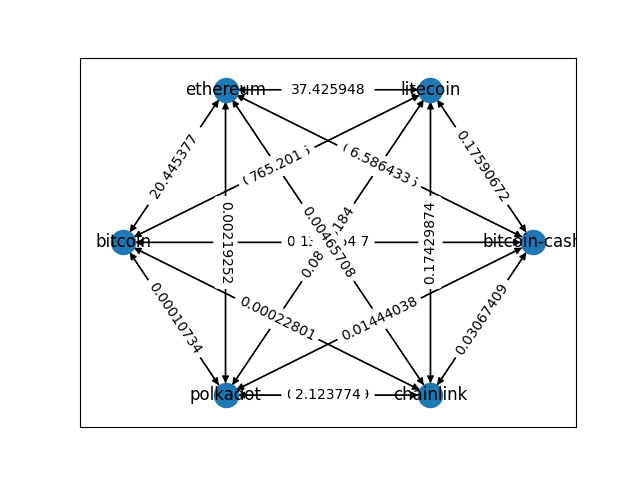
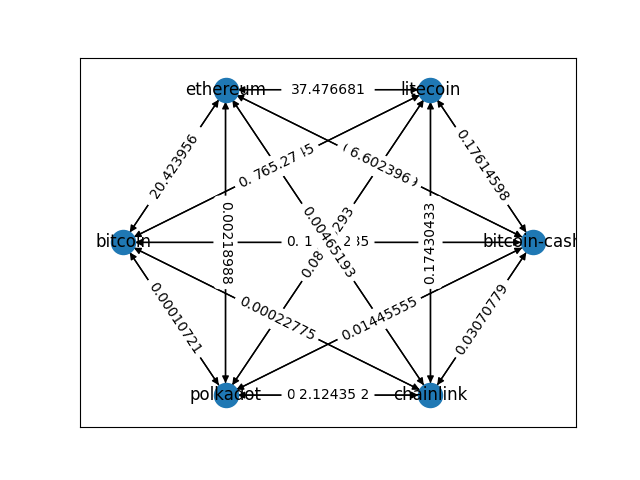
Added data folder and added code to create a json file with the currency exhange rates.

diff --git a/crypto.py b/crypto.py
@@ -49,10 +49,16 @@ def main():
             counter -= 1
 
     url = url1 + curr_string + url2 + curr_id_string  # url string built here
-    print(url)
 
     request = requests.get(url)  # request data from api
     exchange_rates_dict = json.loads(request.text)  # load json as string into python dictionary
+
+    # save path of json file
+    exchange_rates_json_file_path = "./data/exchange_rates.json"
+
+    # dump the dictionary into the json file
+    with open(exchange_rates_json_file_path, "w") as json_file:
+        json.dump(exchange_rates_dict, json_file)
 
     # create rates 2-D list to be used to store the exchange rates
     rates = []
@@ -76,8 +82,6 @@ def main():
         
         # append the rate_row to the rates list
         rates.append(rate_row)
-
-    print(rates)
             
     # current directory
     curr_dir = os.path.dirname(__file__)
@@ -89,23 +93,13 @@ def main():
     edges = []
     i = 0
 
-    # for c1 in currencies:
-    #     j = 0
-    #     for c2 in currencies:
-    #         # if c1 and c2 are not the same and the rate to convert is not None (both for to and from possibilities)
-    #         if c1 != c2 and rates[i][j] is not None and rates[j][i] is not None:
-    #             edges.append((c1, c2, rates[i][j]))
-    #             print("adding edge:", c1, c2, rates[i][j])
-    #         j += 1
-    #     i += 1
-
     # go through currency combinations and append them to edges
     for i, c1 in enumerate(currencies):
         for j, c2 in enumerate(currencies):
             # if c1 and c2 are not the same and the rate to convert is not None (both to and from possibilities)
             if i != j and rates[i][j] is not None and rates[j][i] is not None:
                 edges.append((c1, c2, rates[i][j]))
-                print("adding edge:", c1, c2, rates[i][j])
+                # print("adding edge:", c1, c2, rates[i][j])
 
 
     g.add_weighted_edges_from(edges)
